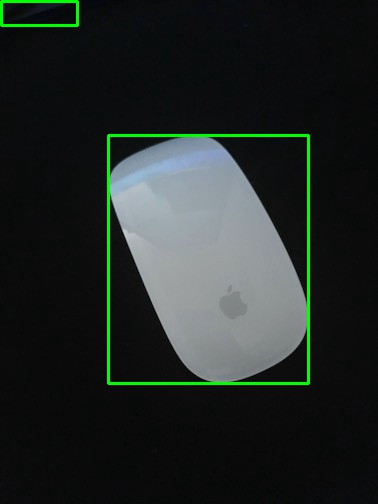
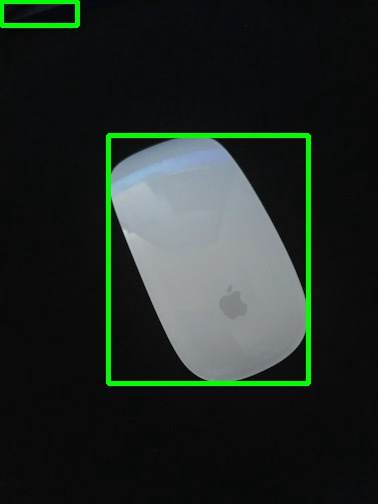
- output regions in a background image.

Changed region(s): [[0.2619, 0.2381, 0.8439, 0.7738], [0.0, 0.0, 0.2328, 0.0595]]

diff --git a/LabelItems.py b/LabelItems.py
@@ -74,7 +74,7 @@ def labelImage(boxList, image):
             (minc, minr),
             (maxc, maxr),
             (0, 255, 0),
-            2)
+            4)
         
         count += 1
 
@@ -109,7 +109,9 @@ def main():
     dstFn2 = dstFn + "-2" + ext
     dstFn3 = dstFn + "-3" + ext
     dstFn4 = dstFn + "-4" + ext
-    dstFn5 = dstFn + "-5" + ext                
+    dstFn5 = dstFn + "-5" + ext  
+    dstFn6 = dstFn + "-6" + ext   
+    dstFn7 = dstFn + "-7" + ext                         
 
     #
     # Parse arguments.
@@ -246,6 +248,20 @@ def main():
 
     image5 = labelImage(boxList5, image)
     cv2.imwrite(dstFn5, image5)   
+
+    #
+    # Output regions in a background image.
+    #
+
+    image6 = image.copy()
+    image6.fill(0)
+    image6 = labelImage(boxList5, image6)    
+    cv2.imwrite(dstFn6, image6)     
+
+    image7 = image.copy()
+    image7.fill(255)
+    image7 = labelImage(boxList5, image7)    
+    cv2.imwrite(dstFn7, image7)         
 
     #
     # Handle --process
